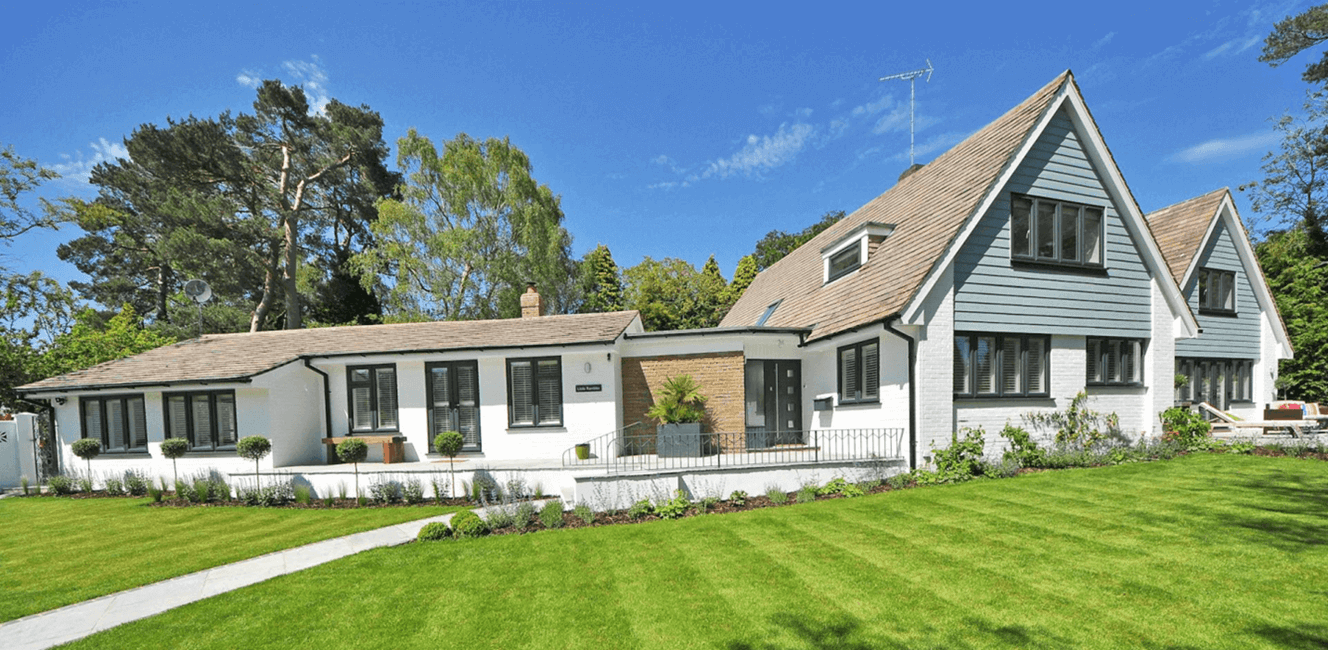
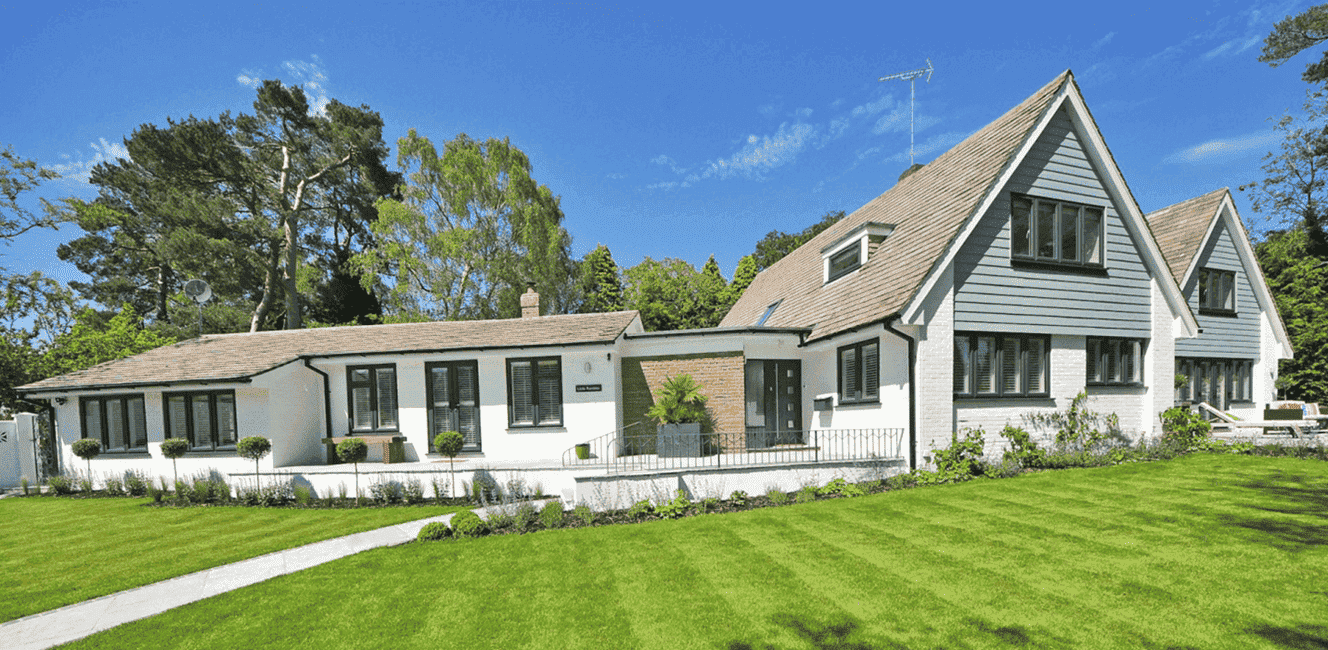
Update image file for contact hero section to compressed png format

diff --git a/pages/contact/contact.css b/pages/contact/contact.css
@@ -4,7 +4,7 @@
 .banner {
   width: 100%;
   height: 704px;
-  background-image: url("../../assets/images/contact-page/house.jpg");
+  background-image: url("../../assets/images/contact-page/house.png");
   background-size: cover;
   display: flex;
   justify-content: center;
